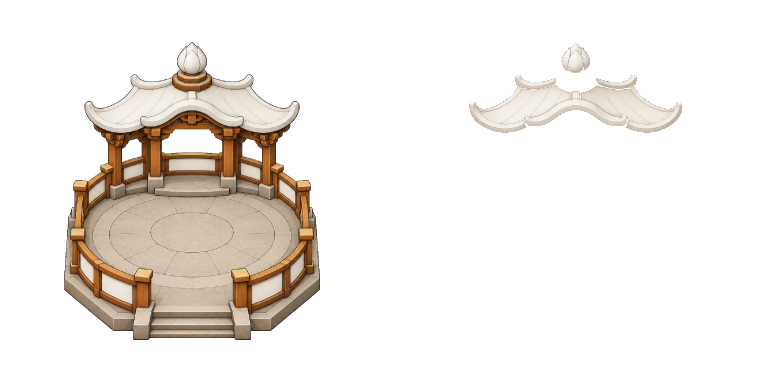
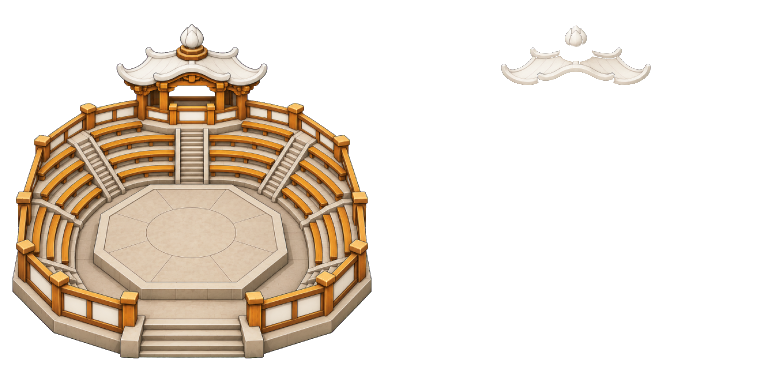
Expand Tournament Grounds into a seated 4x4 arena
Use the selected octagonal tournament-bowl artwork with tiered spectator benches. Increase the authoritative and client footprint to 4x4, refresh overlay geometry expectations, and restrict team paint to the roof and finial.

diff --git a/client/src/config/rules_mirror.js b/client/src/config/rules_mirror.js
@@ -214,7 +214,7 @@ export const STATS = Object.freeze({
   [KIND.PORTAL]: { label: "Portal", icon: "PRT", footW: 3, footH: 3, sight: 1,
     cost: { steel: 150, oil: 0 }, buildTicks: TICK_HZ * 5, trains: [KIND.WARRIOR],
     description: "A supernatural gateway that trains Cultivator Disciples." },
-  [KIND.TOURNAMENT_GROUNDS]: { label: "Tournament Grounds", icon: "TG", footW: 3, footH: 3, sight: 1,
+  [KIND.TOURNAMENT_GROUNDS]: { label: "Tournament Grounds", icon: "TG", footW: 4, footH: 4, sight: 1,
     cost: { steel: 100, oil: 0 }, buildTicks: 200, trains: [], requires: [KIND.PORTAL],
     description: "Right-click four base Disciples inside, or rally a Portal here. A free ten-second tournament produces one winner with a random Dao specialization. Supports a rally point." },
   [KIND.THREE_DAO_PAVILION]: { label: "Three Dao Pavilion", icon: "DAO", footW: 3, footH: 3, sight: 1,

diff --git a/client/src/renderer/rigs/building_png.js b/client/src/renderer/rigs/building_png.js
@@ -69,7 +69,7 @@ const PUMP_JACK_COMPONENT_RIG = Object.freeze({
 // Supply Depots and Tank Traps intentionally stay off this visual pass.
 const BUILDING_PNG_SPECS = Object.freeze([
   buildingSpec(KIND.TOURNAMENT_GROUNDS, 384, 384,
-    "/assets/rigs/tournament-grounds/tournament-atlas.png?v=tournament-01",
+    "/assets/rigs/tournament-grounds/tournament-atlas.png?v=tournament-bowl-02",
     { silhouetteShadow: false, omitFootprintShadow: true, visualScale: 1.1 }),
   buildingSpec(KIND.THREE_DAO_PAVILION, 384, 384,
     "/assets/rigs/three-dao-pavilion/pavilion-atlas.png?v=triad-01",

diff --git a/server/crates/rules/src/defs.rs b/server/crates/rules/src/defs.rs
@@ -523,8 +523,8 @@ pub const BUILDINGS: &[BuildingDef] = &[
             sight_tiles: 1,
             cost_steel: 100,
             cost_oil: 0,
-            foot_w: 3,
-            foot_h: 3,
+            foot_w: 4,
+            foot_h: 4,
             build_ticks: 200,
             dmg: 0,
             range_tiles: 0.0,

diff --git a/client/assets/rigs/tournament-grounds/README.md b/client/assets/rigs/tournament-grounds/README.md
@@ -1,10 +1,11 @@
 # Cultivator Tournament Grounds
 
-Generated with the built-in imagegen tool using the Cultivator Nexus and Three Dao Pavilion
-source images as visual references. The open stone fighting arena, timber railing, rear pavilion,
+Selected tournament-bowl candidate generated with the built-in imagegen tool using the previous
+Tournament Grounds source as its style reference. The raised octagonal fighting platform,
+four-tier timber spectator seating, stone stair aisles, timber railing and rear judges pavilion,
 white-painted curved roof and lotus finial share their elevated 45-degree orthographic camera and
 hand-painted outline style. There are no people, effects, lettering or cast ground shadows.
-The building occupies a 3x3 gameplay footprint; its circular arena sits inside that square.
+The building occupies a 4x4 gameplay footprint; its octagonal arena and seating sit inside that square.
 
 `tournament-source.png` preserves the generated concept on the requested solid magenta background.
 `tournament-atlas.png` contains two 384x384 frames: fixed-color base then roof/finial team-paint
@@ -15,15 +16,16 @@ panels stay fixed. Use equal X/Y scale, `visualScale: 1.1`, `silhouetteShadow: f
 Regenerate with `node scripts/art/tournament-pipeline.mjs`; verify with `--check`. The pipeline
 keys magenta, removes edge spill, and downsamples with premultiplied 4x4 supersampling. Coverage
 below 8% is discarded to remove faint chromakey residue. The neutral-bright paint mask is
-restricted to the upper 38% of the source so the fighting platform stays natural stone.
+restricted to the upper 25% of the source so the fighting platform stays natural stone.
 
 ## Generation prompt
 
-One isolated RTS Tournament Grounds for the Cultivators faction. Use Nexus and Dao Scripture
-Pavilion only as style, material and camera references. A compact open-air martial tournament
-arena on a 3x3 footprint: broad empty stone platform, low timber railing with white-painted panels,
-a small rear pavilion with white curved roof, warm timber posts and lotus-bud finial, open front
-entry and shallow steps. The arena is the dominant shape. Entire building centered with margin,
-front-centered orthographic elevated 45-degree view, equal X/Y scale, relatively low detail and
-broad readable shapes. Flat solid RGB 255,0,255 background, including holes behind posts. No
-people, scene, text, symbols, effects, glow, cast ground shadows, watermark or UI.
+Use the previous Tournament Grounds source as style/material/camera reference. One isolated
+Cultivators RTS Tournament Grounds with a square 4x4-tile footprint, no drawn grid. Compact
+octagonal tournament bowl: broad raised pale-stone fighting platform, narrow circulation aisle,
+four stepped tiers of pale-stone terraces with warm timber benches around the rear and sides,
+and radial stair aisles. Small rear judges pavilion with white upturned roof and lotus finial.
+Wide front entrance, shallow stone steps and low timber/white-panel perimeter rail. Match the
+reference's hand-painted outlines, broad readable shapes and elevated front-centered 45-degree
+orthographic view. Entire building visible with margin. Solid RGB 255,0,255 background including
+holes. No people, lettering, symbols, UI, watermark, scenery, effects or cast ground shadows.

diff --git a/docs/design/tournament-grounds.md b/docs/design/tournament-grounds.md
@@ -13,7 +13,7 @@ emerges with a random Dao specialization. Supports a rally point.”
 ## Phase 1: rules and balance — complete
 
 - Cultivators only; Engineer build card; 100 steel, zero oil; completed Portal prerequisite.
-- 3×3 tiles, ordinary solid building placement/pathing; 200 ticks construction (6.67 seconds).
+- 4×4 tiles, ordinary solid building placement/pathing; 200 ticks construction (6.67 seconds).
 - 120 HP, armored, one-tile sight, no attack, no supply provided/used; ordinary construction,
   cancellation/refund, damage, fog memory and destruction behavior.
 - Right-click own completed Grounds with base Disciples (Warrior kind, no Dao). Entrants walk to

diff --git a/docs/design/balance.md b/docs/design/balance.md
@@ -830,7 +830,7 @@ Dao presentation and support Shield follow [Disciple insight and Dao evolution](
 
 ### Tournament Grounds
 
-Cultivator Engineer building: 100 steel, no oil, completed Portal prerequisite, 3×3,
+Cultivator Engineer building: 100 steel, no oil, completed Portal prerequisite, 4×4,
 120 HP armored, sight 1, 200-tick construction. Four base Disciples are consumed
 for a free 300-tick tournament producing one full-health Disciple
 rolling an existing first Dao specialization uniformly. Two supply reserve the winner.
